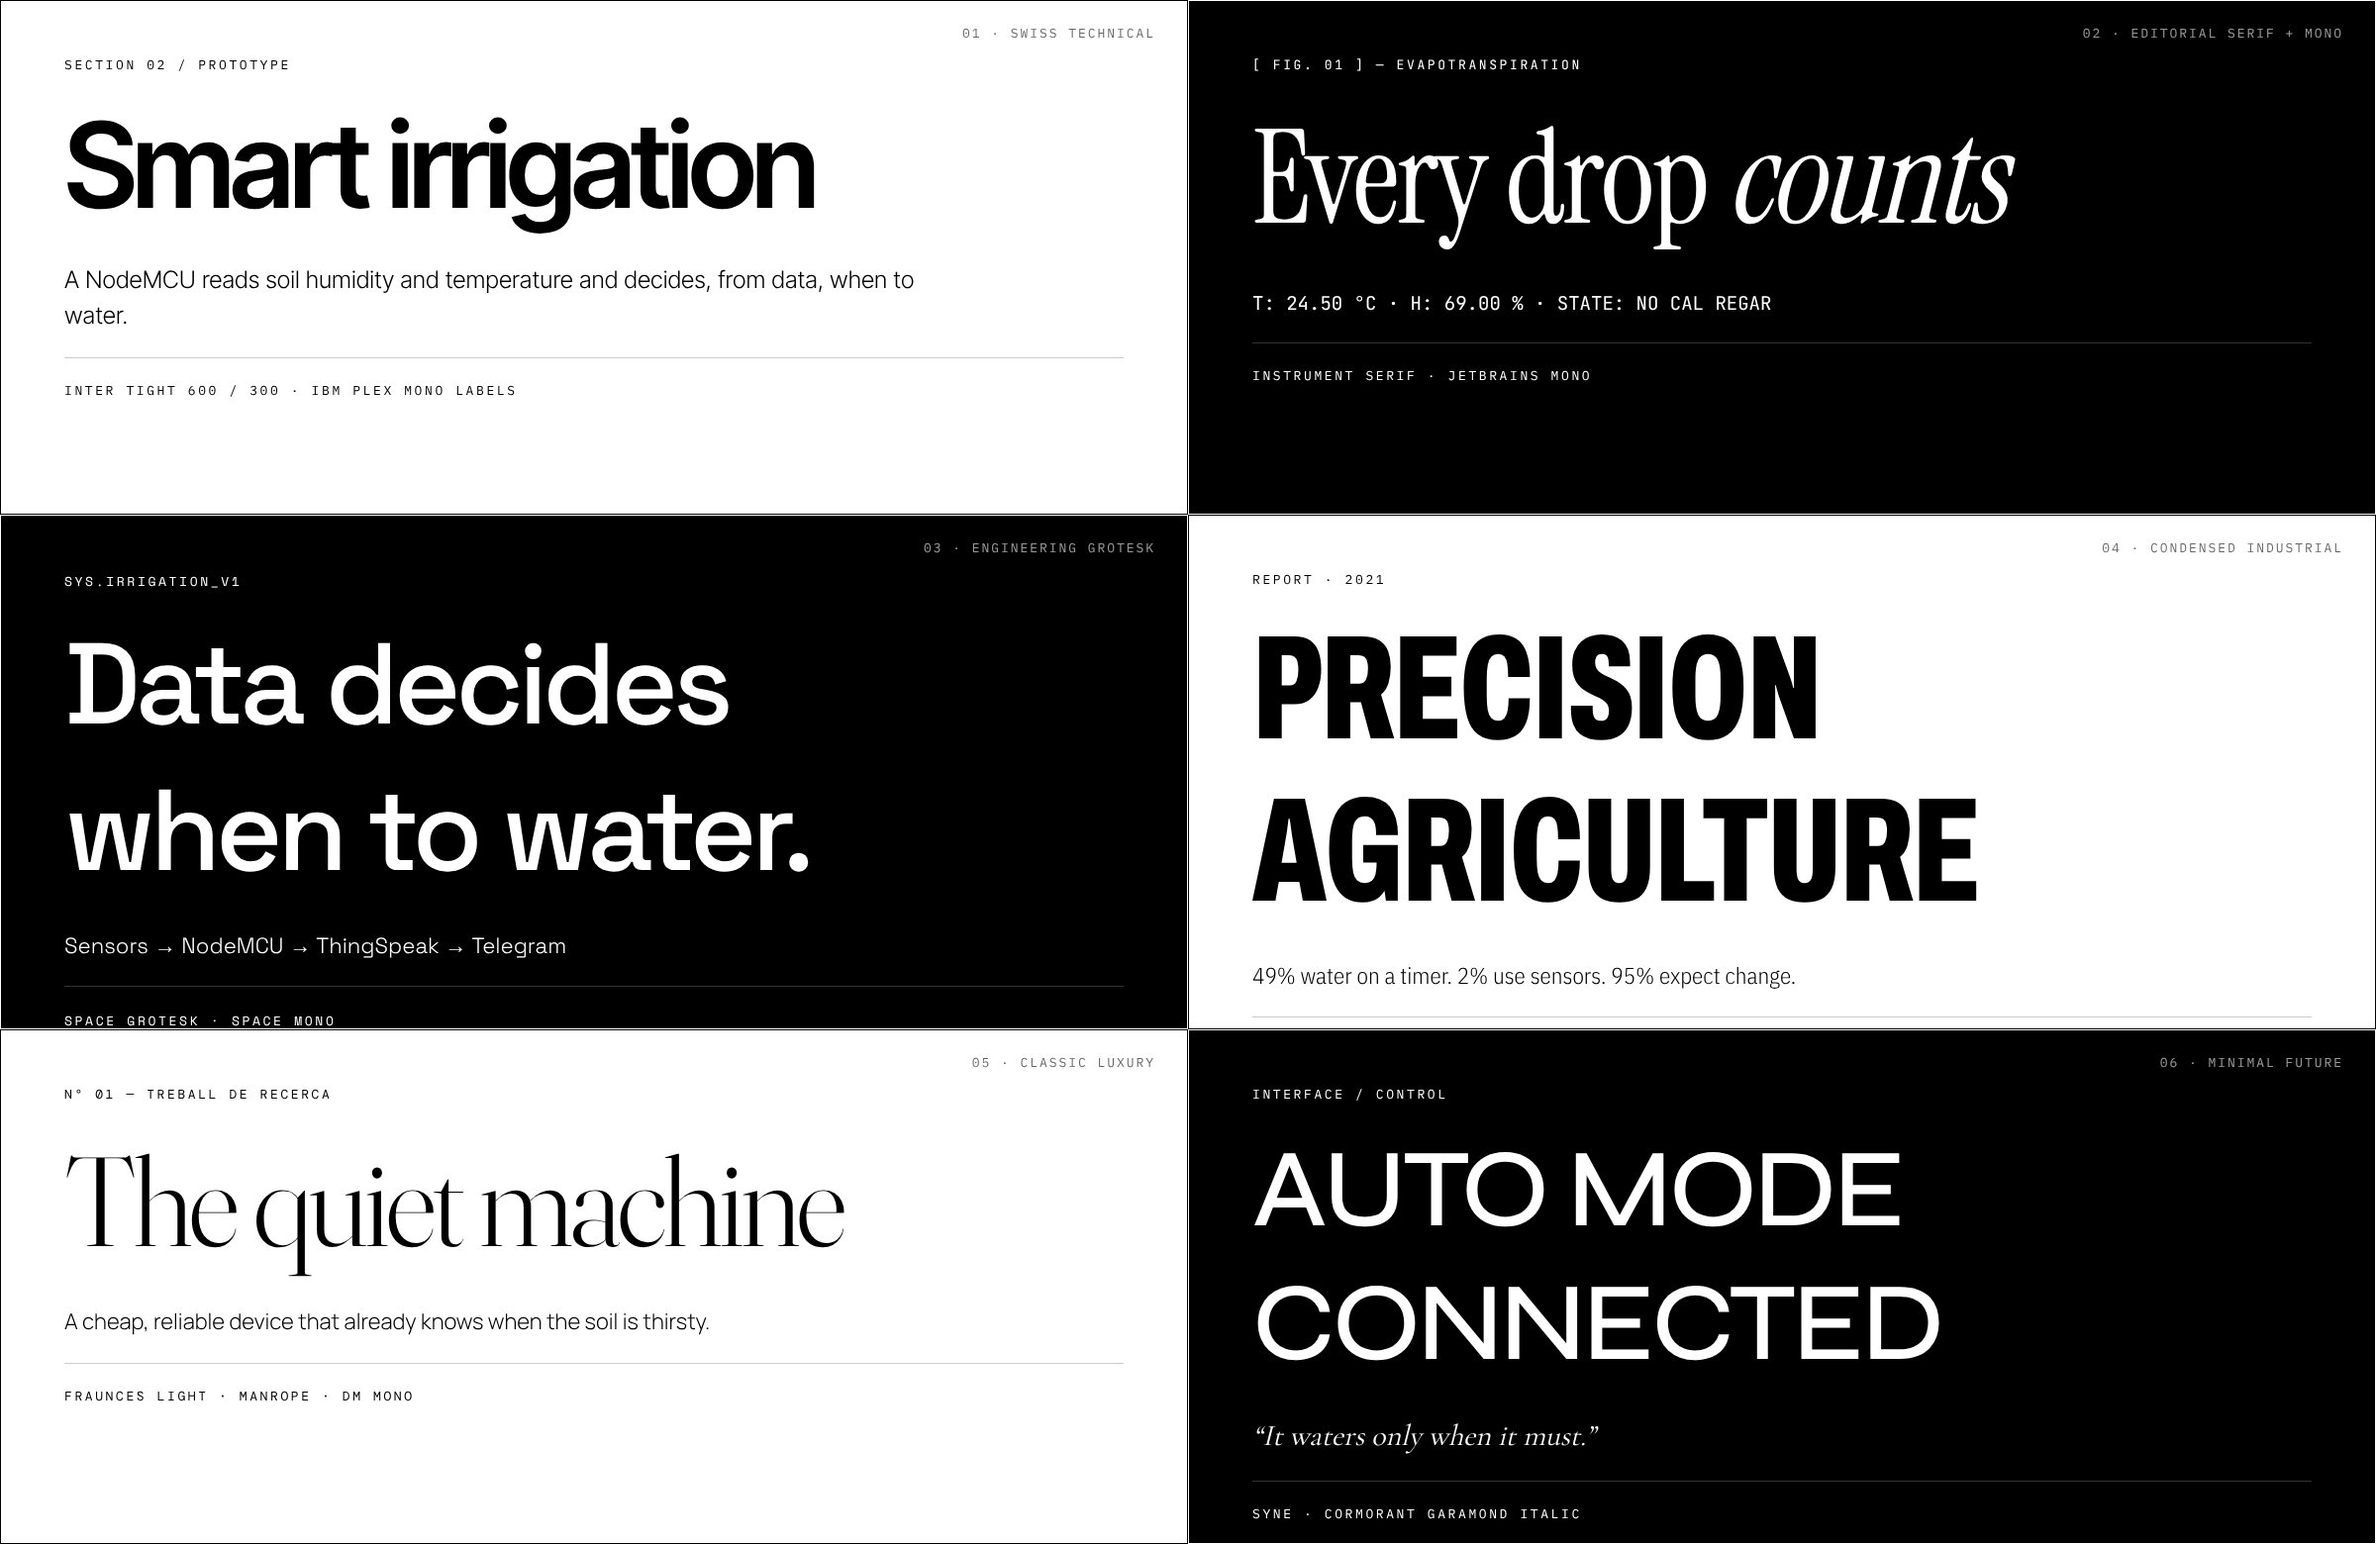
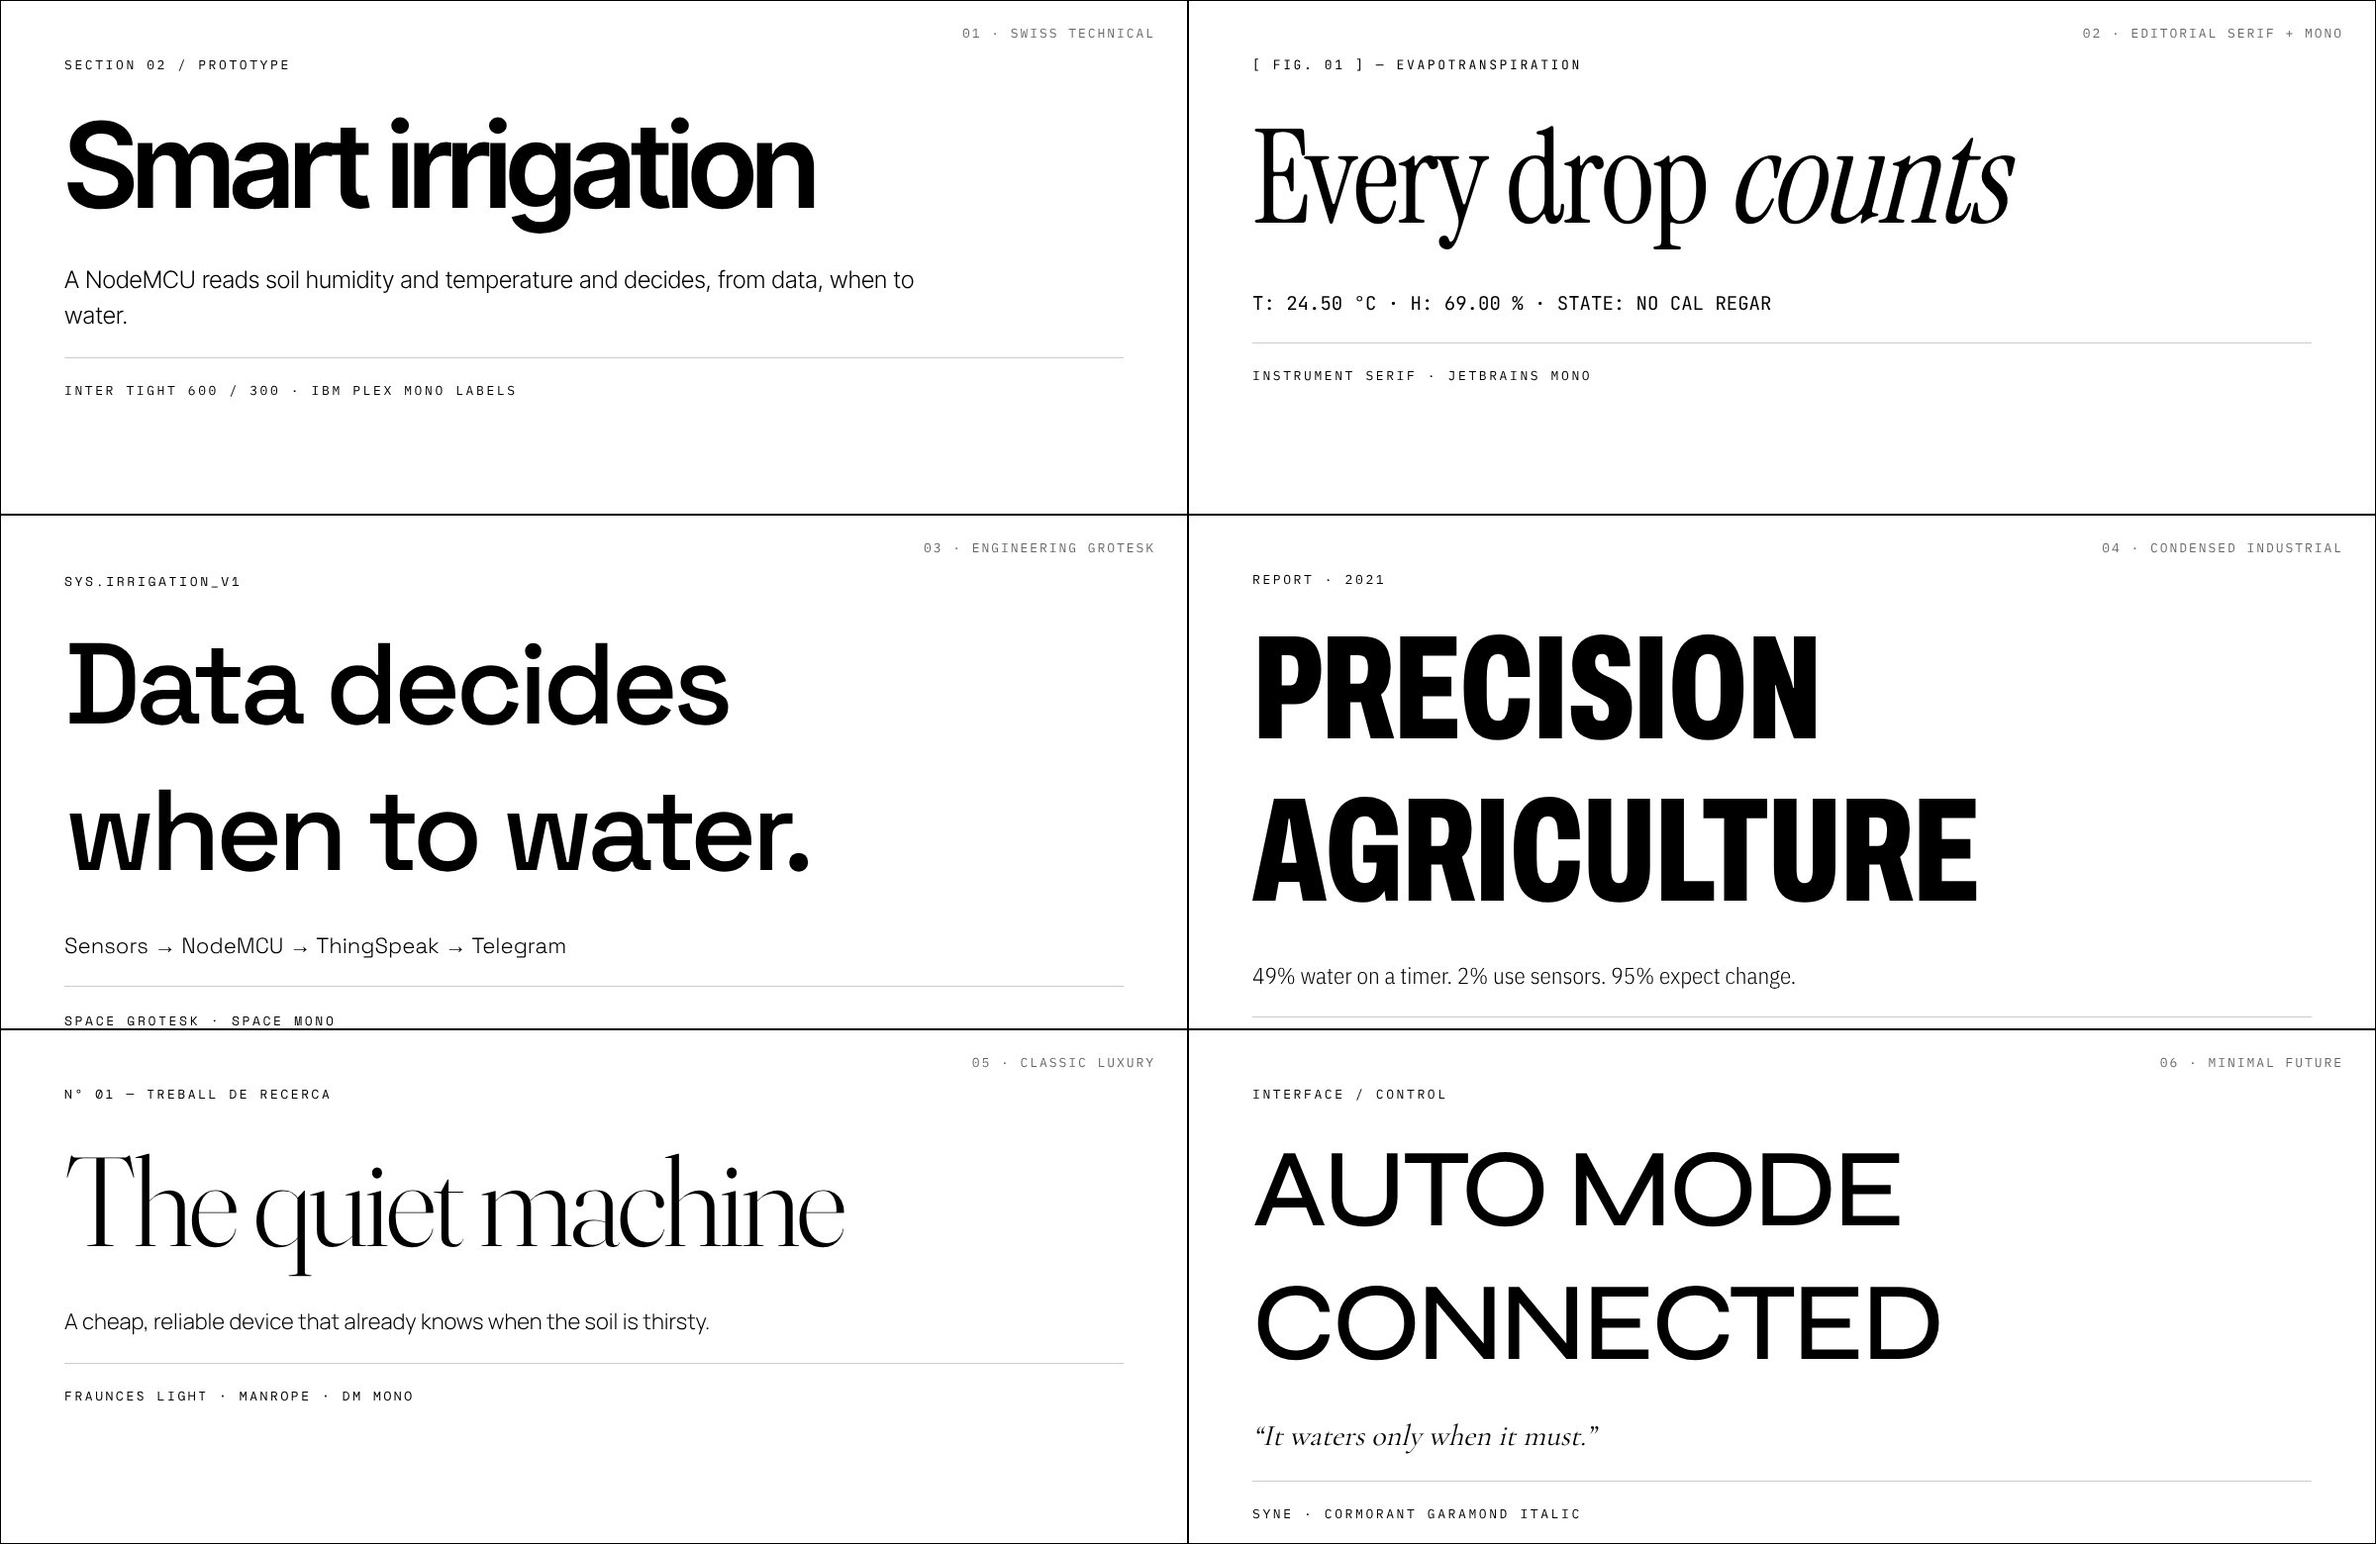
Type specimens: all black on white
Claude-Session: https://claude.ai/code/session_01PchemtfrPnXx57Zg6o9MzX

diff --git a/billboard/type/specimens.html b/billboard/type/specimens.html
@@ -4,7 +4,7 @@
 body{margin:0;background:#fff;color:#000;font-family:"IBM Plex Mono";}
 .g{display:grid;grid-template-columns:1fr 1fr;width:2400px}
 .c{height:520px;padding:56px 64px;box-sizing:border-box;border:1px solid #000;position:relative;overflow:hidden}
-.c:nth-child(4n+2),.c:nth-child(4n+3){background:#000;color:#fff;border-color:#fff}
+
 .n{position:absolute;top:24px;right:32px;font:13px "IBM Plex Mono";letter-spacing:.15em;text-transform:uppercase;opacity:.6}
 .h{margin:20px 0 26px;line-height:.95}
 .b{font-size:22px;line-height:1.5;max-width:900px;margin:0}
